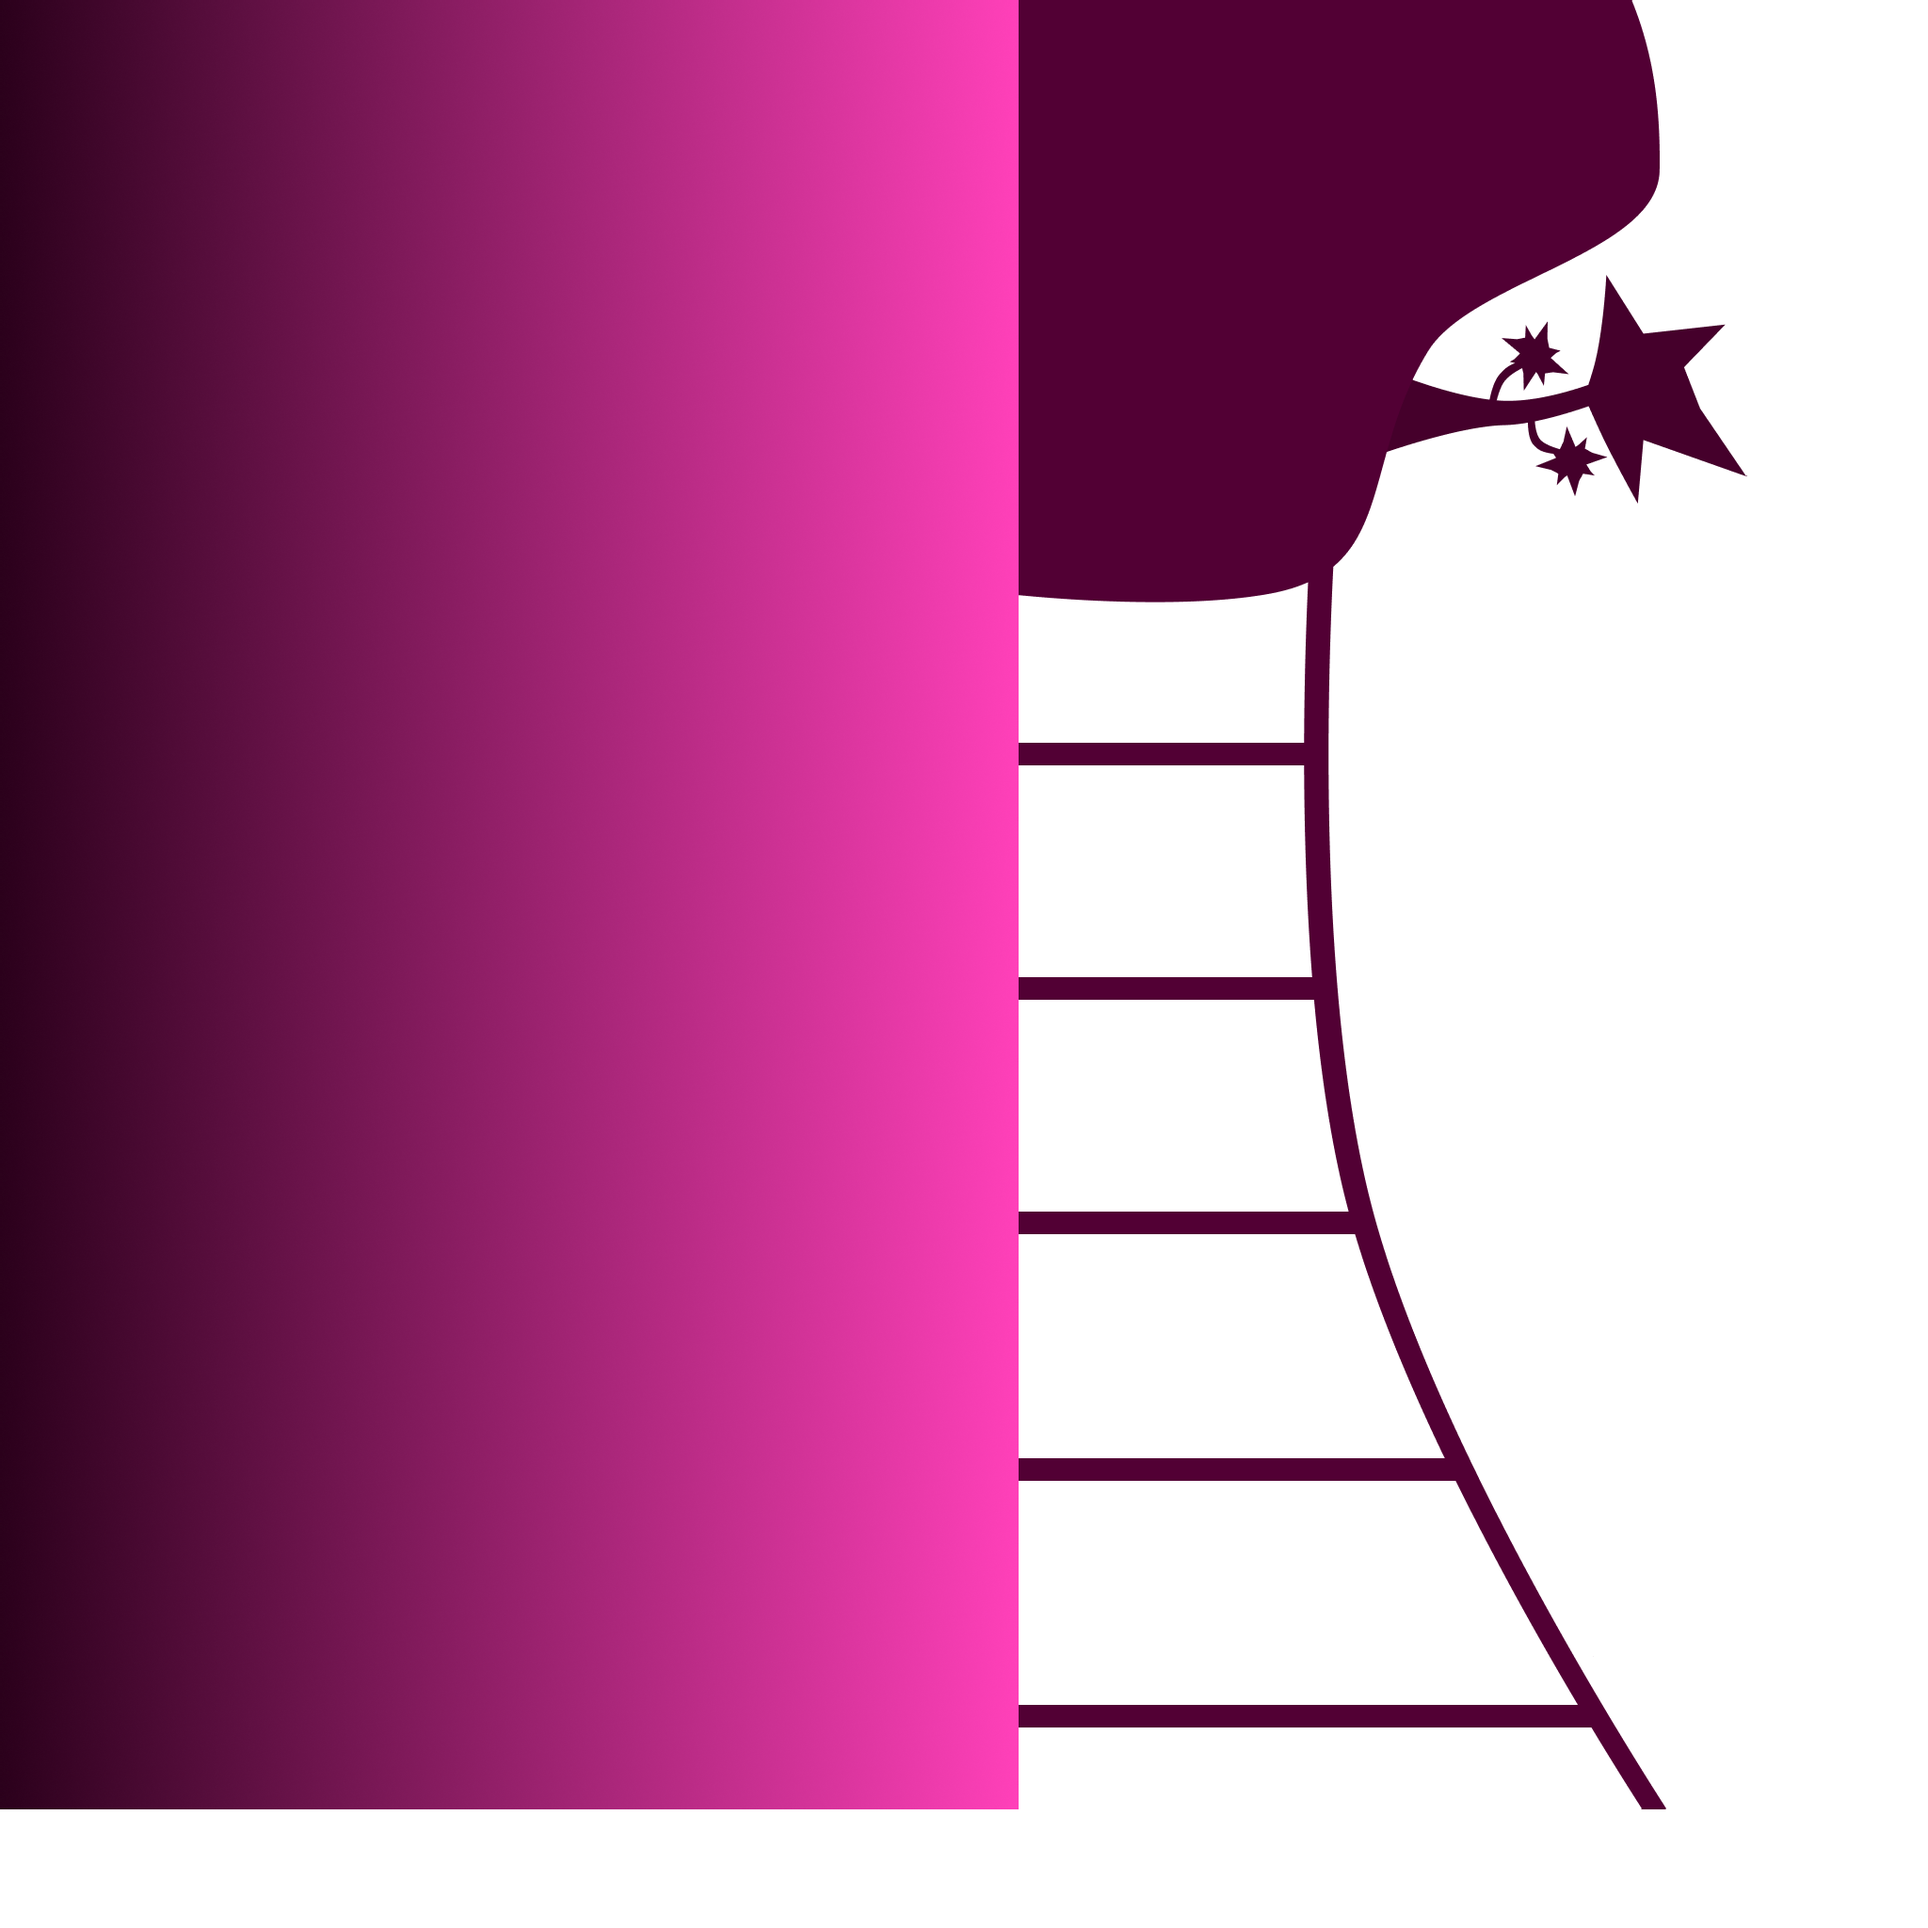
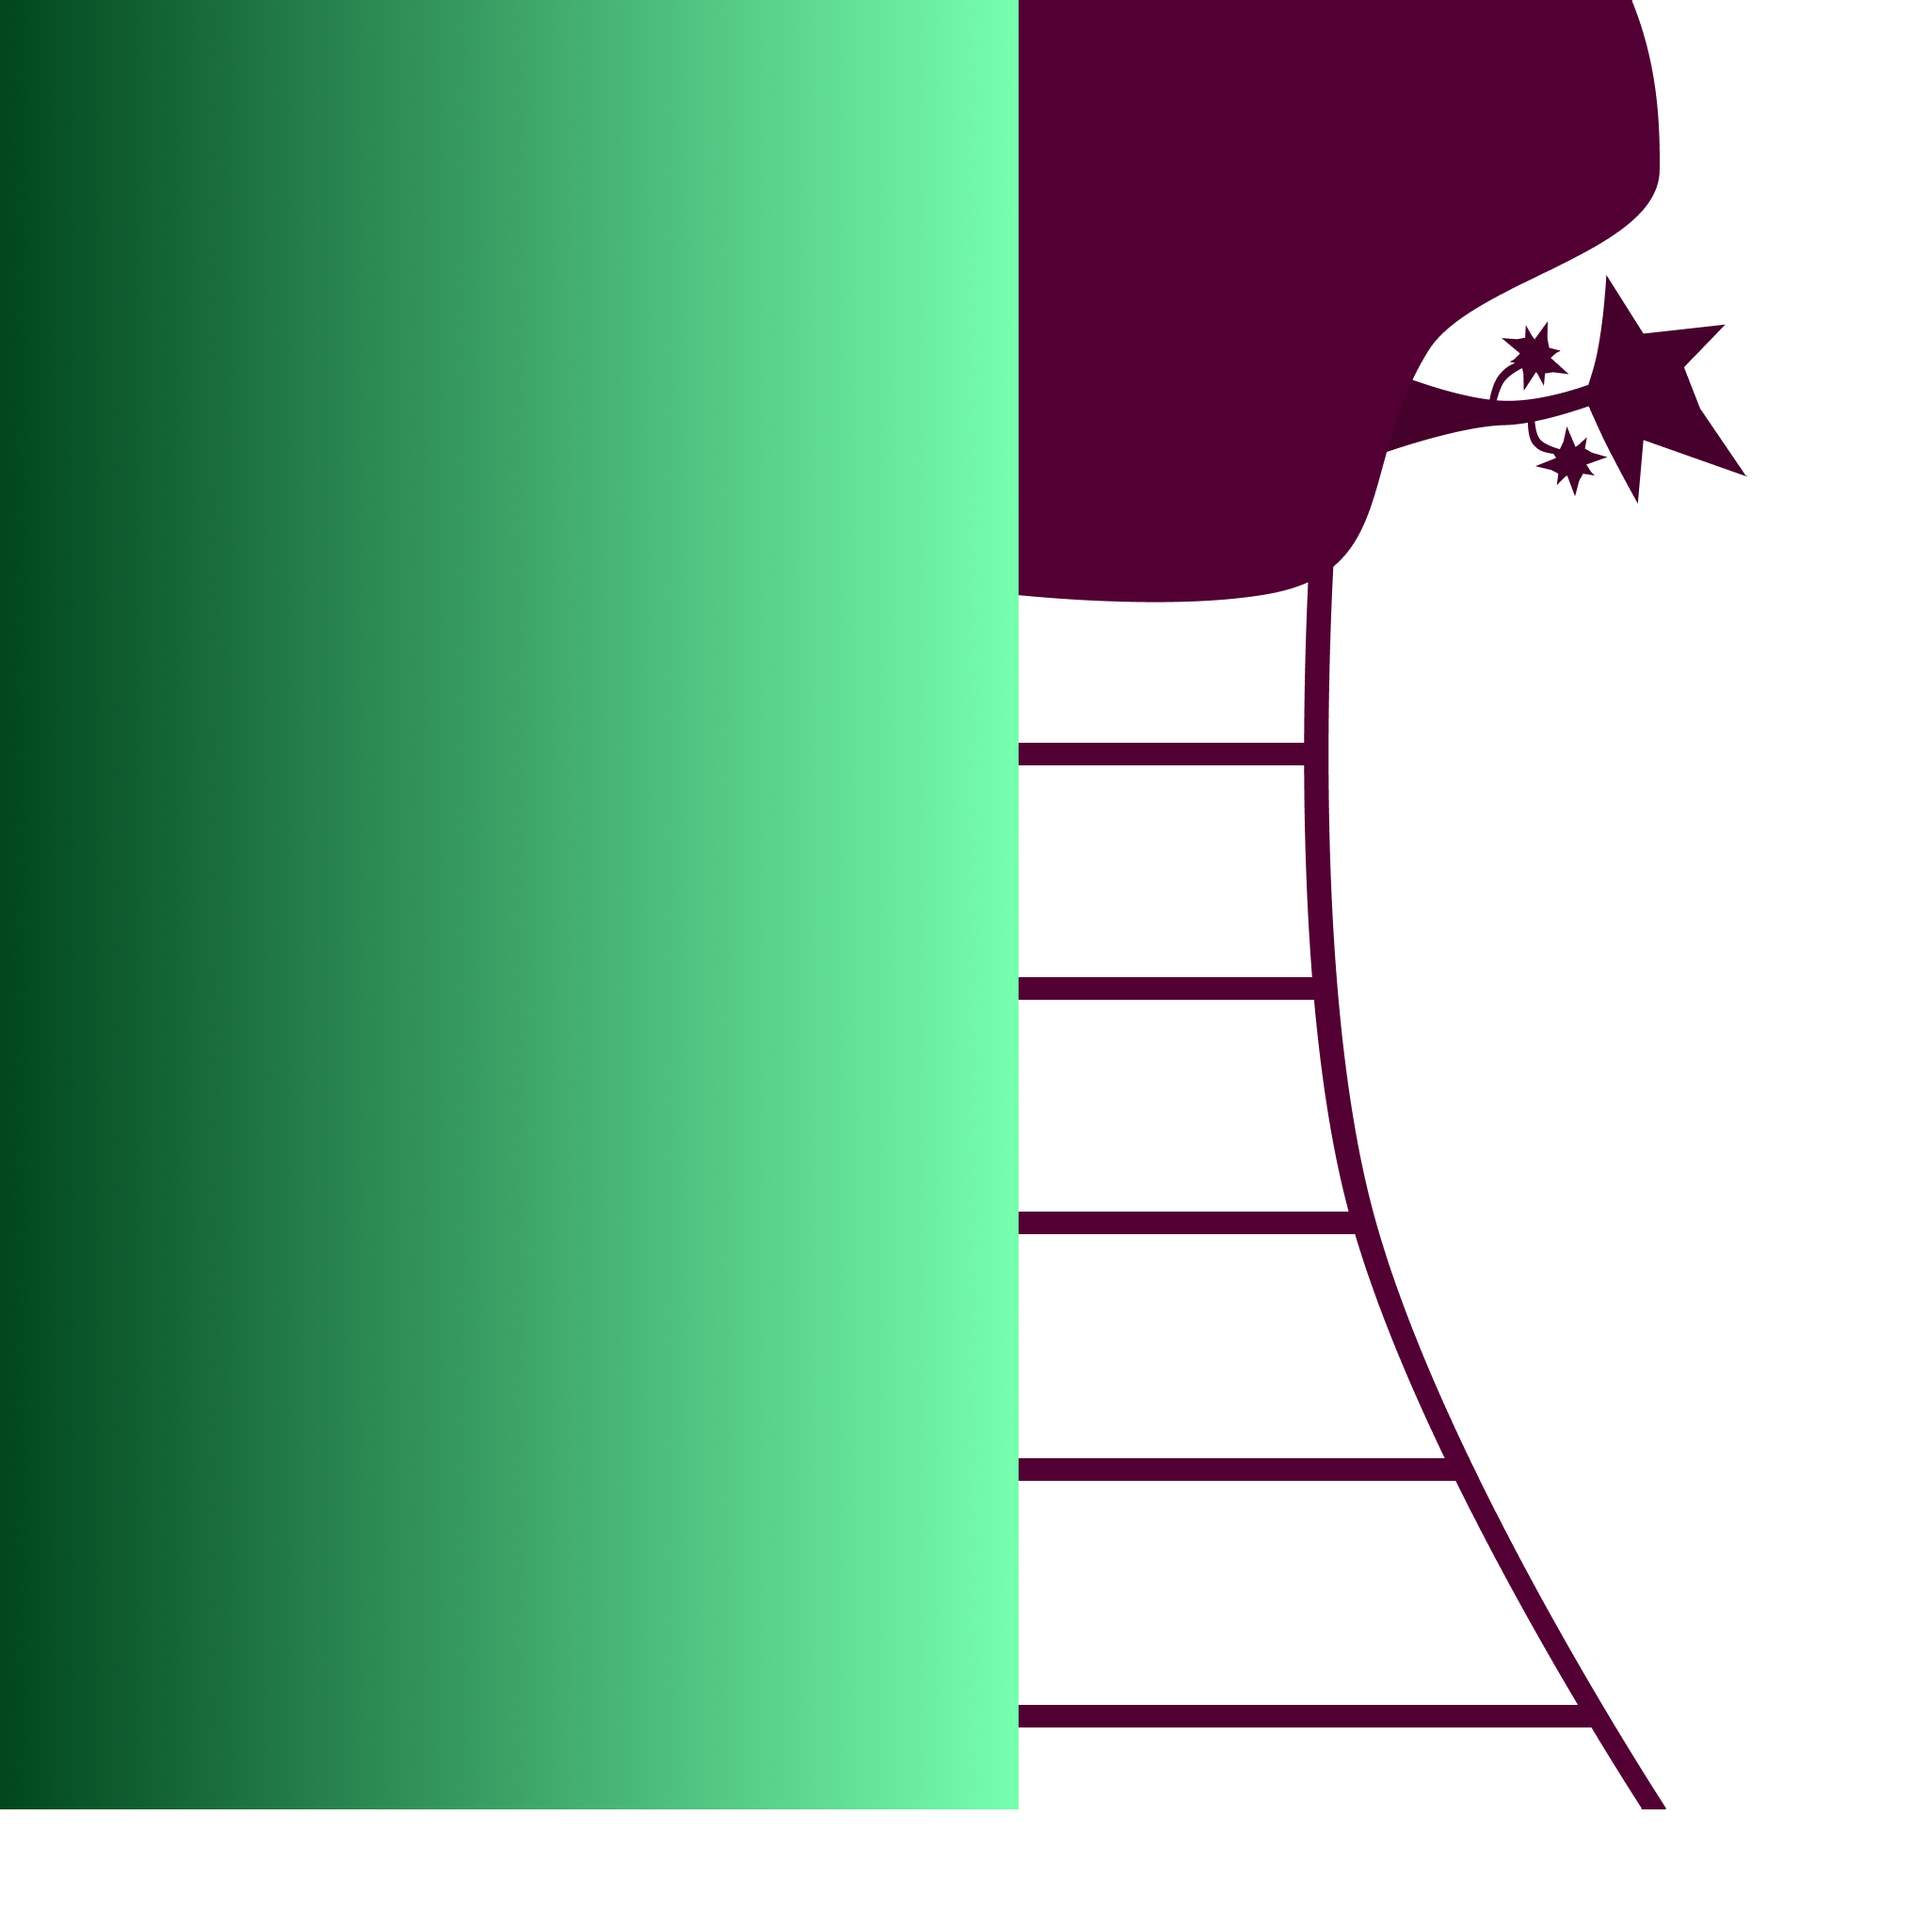
Add files via upload

diff --git a/scripts/objRefTable.js b/scripts/objRefTable.js
@@ -22,9 +22,9 @@ self.C3_GetObjectRefTable = function () {
 		C3.Plugins.System.Cnds.OnLayoutStart,
 		C3.Plugins.System.Acts.Wait,
 		C3.Plugins.System.Acts.NextPrevLayout,
+		C3.Plugins.Audio.Acts.StopAll,
 		C3.Plugins.Sprite.Cnds.OnCollision,
 		C3.Plugins.System.Acts.RestartLayout,
-		C3.Plugins.Audio.Acts.StopAll,
 		C3.Plugins.System.Acts.ResetGlobals,
 		C3.Behaviors.Platform.Acts.SetVectorY,
 		C3.Behaviors.Platform.Exps.JumpStrength,
@@ -132,12 +132,17 @@ self.C3_JsPropNameTable = [
 	{WaitForThePlatformAndAvoidThePinkBallsTheyKill: 0},
 	{EntradaDeTexto: 0},
 	{TextoAgradecimento: 0},
+	{Verde: 0},
+	{Verde2: 0},
 	{PontosColetados: 0},
 	{PontosNecessarios: 0},
 	{isMuted: 0},
 	{PontosColetados2: 0},
 	{PontosNecessarios2: 0},
-	{isMuted2: 0}
+	{isMuted2: 0},
+	{PontosColetados3: 0},
+	{PontosNecessarios3: 0},
+	{isMuted3: 0}
 ];
 
 self.InstanceType = {
@@ -204,5 +209,7 @@ self.InstanceType = {
 	checkpoint: class extends self.ISpriteInstance {},
 	WaitForThePlatformAndAvoidThePinkBallsTheyKill: class extends self.ISpriteInstance {},
 	EntradaDeTexto: class extends self.ITextInputInstance {},
-	TextoAgradecimento: class extends self.ITextInstance {}
+	TextoAgradecimento: class extends self.ITextInstance {},
+	Verde: class extends self.ISpriteInstance {},
+	Verde2: class extends self.ISpriteInstance {}
 }
